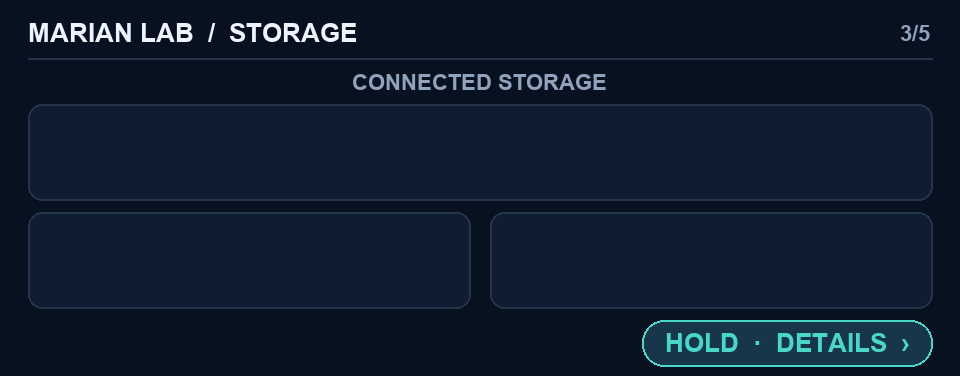
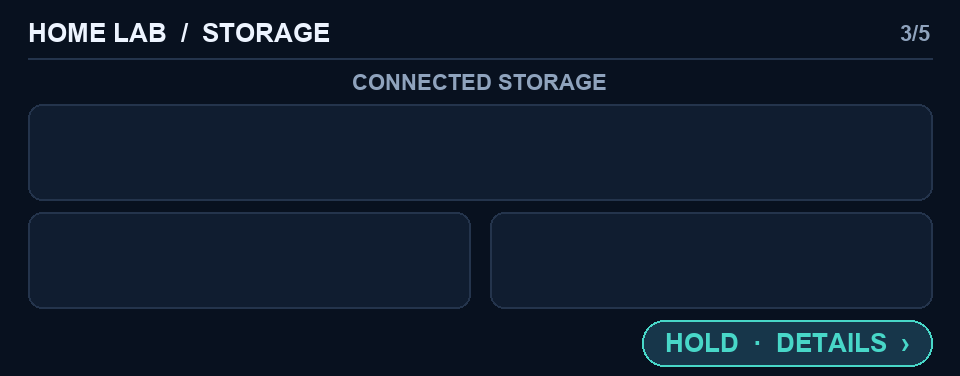
Adopt HOME LAB display identity and rebalance gallery

Changed region(s): [[0.0312, 0.0585, 0.375, 0.117]]

diff --git a/dashboard/rebrand-active-assets.py b/dashboard/rebrand-active-assets.py
@@ -1,0 +1,44 @@
+#!/usr/bin/env python3
+"""Apply the permanent HOME LAB LCD title to active dashboard backgrounds."""
+
+from pathlib import Path
+from PIL import Image, ImageDraw, ImageFont
+
+BG = "#08111f"
+TEXT = "#edf4ff"
+HERE = Path(__file__).resolve().parent
+ASSETS = HERE / "assets"
+
+
+def font(size: int, bold: bool = False) -> ImageFont.FreeTypeFont:
+    candidates = [
+        Path("/usr/share/fonts/truetype/dejavu/DejaVuSans-Bold.ttf" if bold else
+             "/usr/share/fonts/truetype/dejavu/DejaVuSans.ttf"),
+        Path("/System/Library/Fonts/Supplemental/Arial Bold.ttf" if bold else
+             "/System/Library/Fonts/Supplemental/Arial.ttf"),
+    ]
+    for candidate in candidates:
+        if candidate.exists():
+            return ImageFont.truetype(str(candidate), size)
+    raise FileNotFoundError("Install DejaVu Sans or Arial to render assets")
+
+
+titles = {
+    "health.png": "HOME LAB  /  HEALTH",
+    "compute.png": "HOME LAB  /  COMPUTE",
+    "network.png": "HOME LAB  /  NETWORK",
+    "services.png": "HOME LAB  /  SERVICES",
+    "system-actions-reboot.png": "HOME LAB  /  SYSTEM ACTIONS",
+    "system-actions-shutdown.png": "HOME LAB  /  SYSTEM ACTIONS",
+}
+for path in ASSETS.glob("storage-??.png"):
+    titles[path.name] = "HOME LAB  /  STORAGE"
+
+for filename, title in titles.items():
+    path = ASSETS / filename
+    image = Image.open(path).convert("RGB")
+    draw = ImageDraw.Draw(image)
+    draw.rectangle((20, 10, 700, 56), fill=BG)
+    draw.text((28, 18), title, font=font(26, True), fill=TEXT)
+    image.save(path)
+    print(path)

diff --git a/dashboard/generate-services-background.py b/dashboard/generate-services-background.py
@@ -29,7 +29,7 @@ def font(size: int, bold: bool = False) -> ImageFont.FreeTypeFont:
 
 image = Image.new("RGB", (W, H), BG)
 draw = ImageDraw.Draw(image)
-draw.text((28, 18), "MARIAN LAB  /  SERVICES", font=font(26, True), fill=TEXT)
+draw.text((28, 18), "HOME LAB  /  SERVICES", font=font(26, True), fill=TEXT)
 draw.text((930, 21), "5/5", font=font(22, True), fill=MUTED, anchor="ra")
 draw.line((28, 58, 932, 58), fill=LINE, width=2)
 

diff --git a/gallery/README.md b/gallery/README.md
@@ -37,7 +37,7 @@ Click any panel to open the full-resolution image.
     <td width="50%" align="center">
       <a href="services.png"><img src="services.png" width="460" alt="Services panel"></a><br>
       <small><em><strong>Services</strong><br>
-      Proxmox, MARIAN LAB, guests, storage, SSH and node state.</em></small>
+      Proxmox, dashboard services, guests, storage, SSH and node state.</em></small>
     </td>
     <td width="50%"></td>
   </tr>
@@ -68,17 +68,13 @@ Click any panel to open the full-resolution image.
 
 <table>
   <tr>
-    <td width="33%" align="center">
-      <a href="health-warning.png"><img src="health-warning.png" width="300" alt="Warning state"></a><br>
+    <td width="50%" align="center">
+      <a href="health-warning.png"><img src="health-warning.png" width="460" alt="Warning state"></a><br>
       <small><em><strong>Warn</strong><br>Fixed amber dot.</em></small>
     </td>
-    <td width="33%" align="center">
-      <a href="health-error-on.png"><img src="health-error-on.png" width="300" alt="Error pulse visible"></a><br>
+    <td width="50%" align="center">
+      <a href="health-error-on.png"><img src="health-error-on.png" width="460" alt="Error pulse visible"></a><br>
       <small><em><strong>Err — pulse on</strong><br>Red dot visible.</em></small>
-    </td>
-    <td width="33%" align="center">
-      <a href="health-error-off.png"><img src="health-error-off.png" width="300" alt="Error pulse hidden"></a><br>
-      <small><em><strong>Err — pulse off</strong><br>Text remains readable.</em></small>
     </td>
   </tr>
 </table>
@@ -97,10 +93,7 @@ cancels after five seconds without input.
       <a href="system-actions-reboot.png"><img src="system-actions-reboot.png" width="460" alt="Reboot selected"></a><br>
       <small><em><strong>Reboot selected</strong></em></small>
     </td>
-    <td width="50%" align="center">
-      <a href="system-actions-shutdown.png"><img src="system-actions-shutdown.png" width="460" alt="Shutdown selected"></a><br>
-      <small><em><strong>Shutdown selected</strong></em></small>
-    </td>
+    <td width="50%"></td>
   </tr>
 </table>
 

diff --git a/README.md b/README.md
@@ -14,12 +14,12 @@ sensor of the AOOSTAR GEM12+ Pro mini PC.
 > and documentation were developed with AI assistance and human review. See
 > [AI_DISCLOSURE.md](AI_DISCLOSURE.md).
 
-MARIAN LAB turns otherwise underused hardware into a local headless-server
+The project turns otherwise underused hardware into a local headless-server
 console. It presents live health, compute, storage, network and service state.
 The fingerprint reader is used only as a touch controller—tap for next, hold for
 details/back—and does not extract or store biometric templates.
 
-![MARIAN LAB Health dashboard](gallery/health.png)
+![HOME LAB Health dashboard](gallery/health.png)
 
 <details>
 <summary>Dashboard gallery</summary>
@@ -41,9 +41,9 @@ details/back—and does not extract or store biometric templates.
 <details>
 <summary>Health-state examples</summary>
 
-| Warning | Error — dot visible | Error — dot hidden |
-| --- | --- | --- |
-| ![Warning state](gallery/health-warning.png) | ![Error pulse on](gallery/health-error-on.png) | ![Error pulse off](gallery/health-error-off.png) |
+| Warning | Error — pulsing dot |
+| --- | --- |
+| ![Warning state](gallery/health-warning.png) | ![Error pulse on](gallery/health-error-on.png) |
 
 </details>
 

diff --git a/docs/architecture.md b/docs/architecture.md
@@ -4,7 +4,7 @@ Small systemd-supervised components keep collection, rendering and input
 separate:
 
 1. `aster-sysinfo` publishes generic system metrics.
-2. MARIAN LAB sensors add Proxmox, network, mount and NVMe SMART state.
+2. Dashboard sensors add Proxmox, network, mount and NVMe SMART state.
 3. Patched `asterctl` renders the selected panel.
 4. A persistent MAFP helper turns touch duration into tap/hold triggers.
 5. A power-event helper opens the guarded System Actions modal.

diff --git a/docs/security.md b/docs/security.md
@@ -2,7 +2,7 @@
 
 With `MAFP_TOUCH_MODE` enabled, the patched MAFP driver reports finger presence
 and release, then returns to waiting before feature extraction, matching or
-enrollment. MARIAN LAB creates, stores and transmits no biometric template.
+enrollment. The dashboard creates, stores and transmits no biometric template.
 
 The custom libfprint tree is staged for an isolated `/opt/libfprint-mafp` prefix
 instead of silently overwriting the distribution package.

diff --git a/DISCLAIMER.md b/DISCLAIMER.md
@@ -1,6 +1,6 @@
 # Safety and responsibility notice
 
-MARIAN LAB is experimental hardware-facing software. **Use it entirely at your
+This project is experimental hardware-facing software. **Use it entirely at your
 own risk and responsibility.** It is not an official or vendor-supported
 AOOSTAR, AMD, Proxmox, Corsair, Lexar, Microarray, libfprint or aoostar-rs product.
 

diff --git a/THIRD_PARTY.md b/THIRD_PARTY.md
@@ -6,7 +6,7 @@
 - Tested commit: `2f4d95957d2d61f9fe5cd27e4cf14bd2ae566f63`
 - License: MIT OR Apache-2.0
 
-The MARIAN LAB patch adds manual hierarchical navigation, responsive triggers,
+The dashboard patch adds manual hierarchical navigation, responsive triggers,
 guarded system actions and adaptive Storage rendering.
 
 ## libfprint
